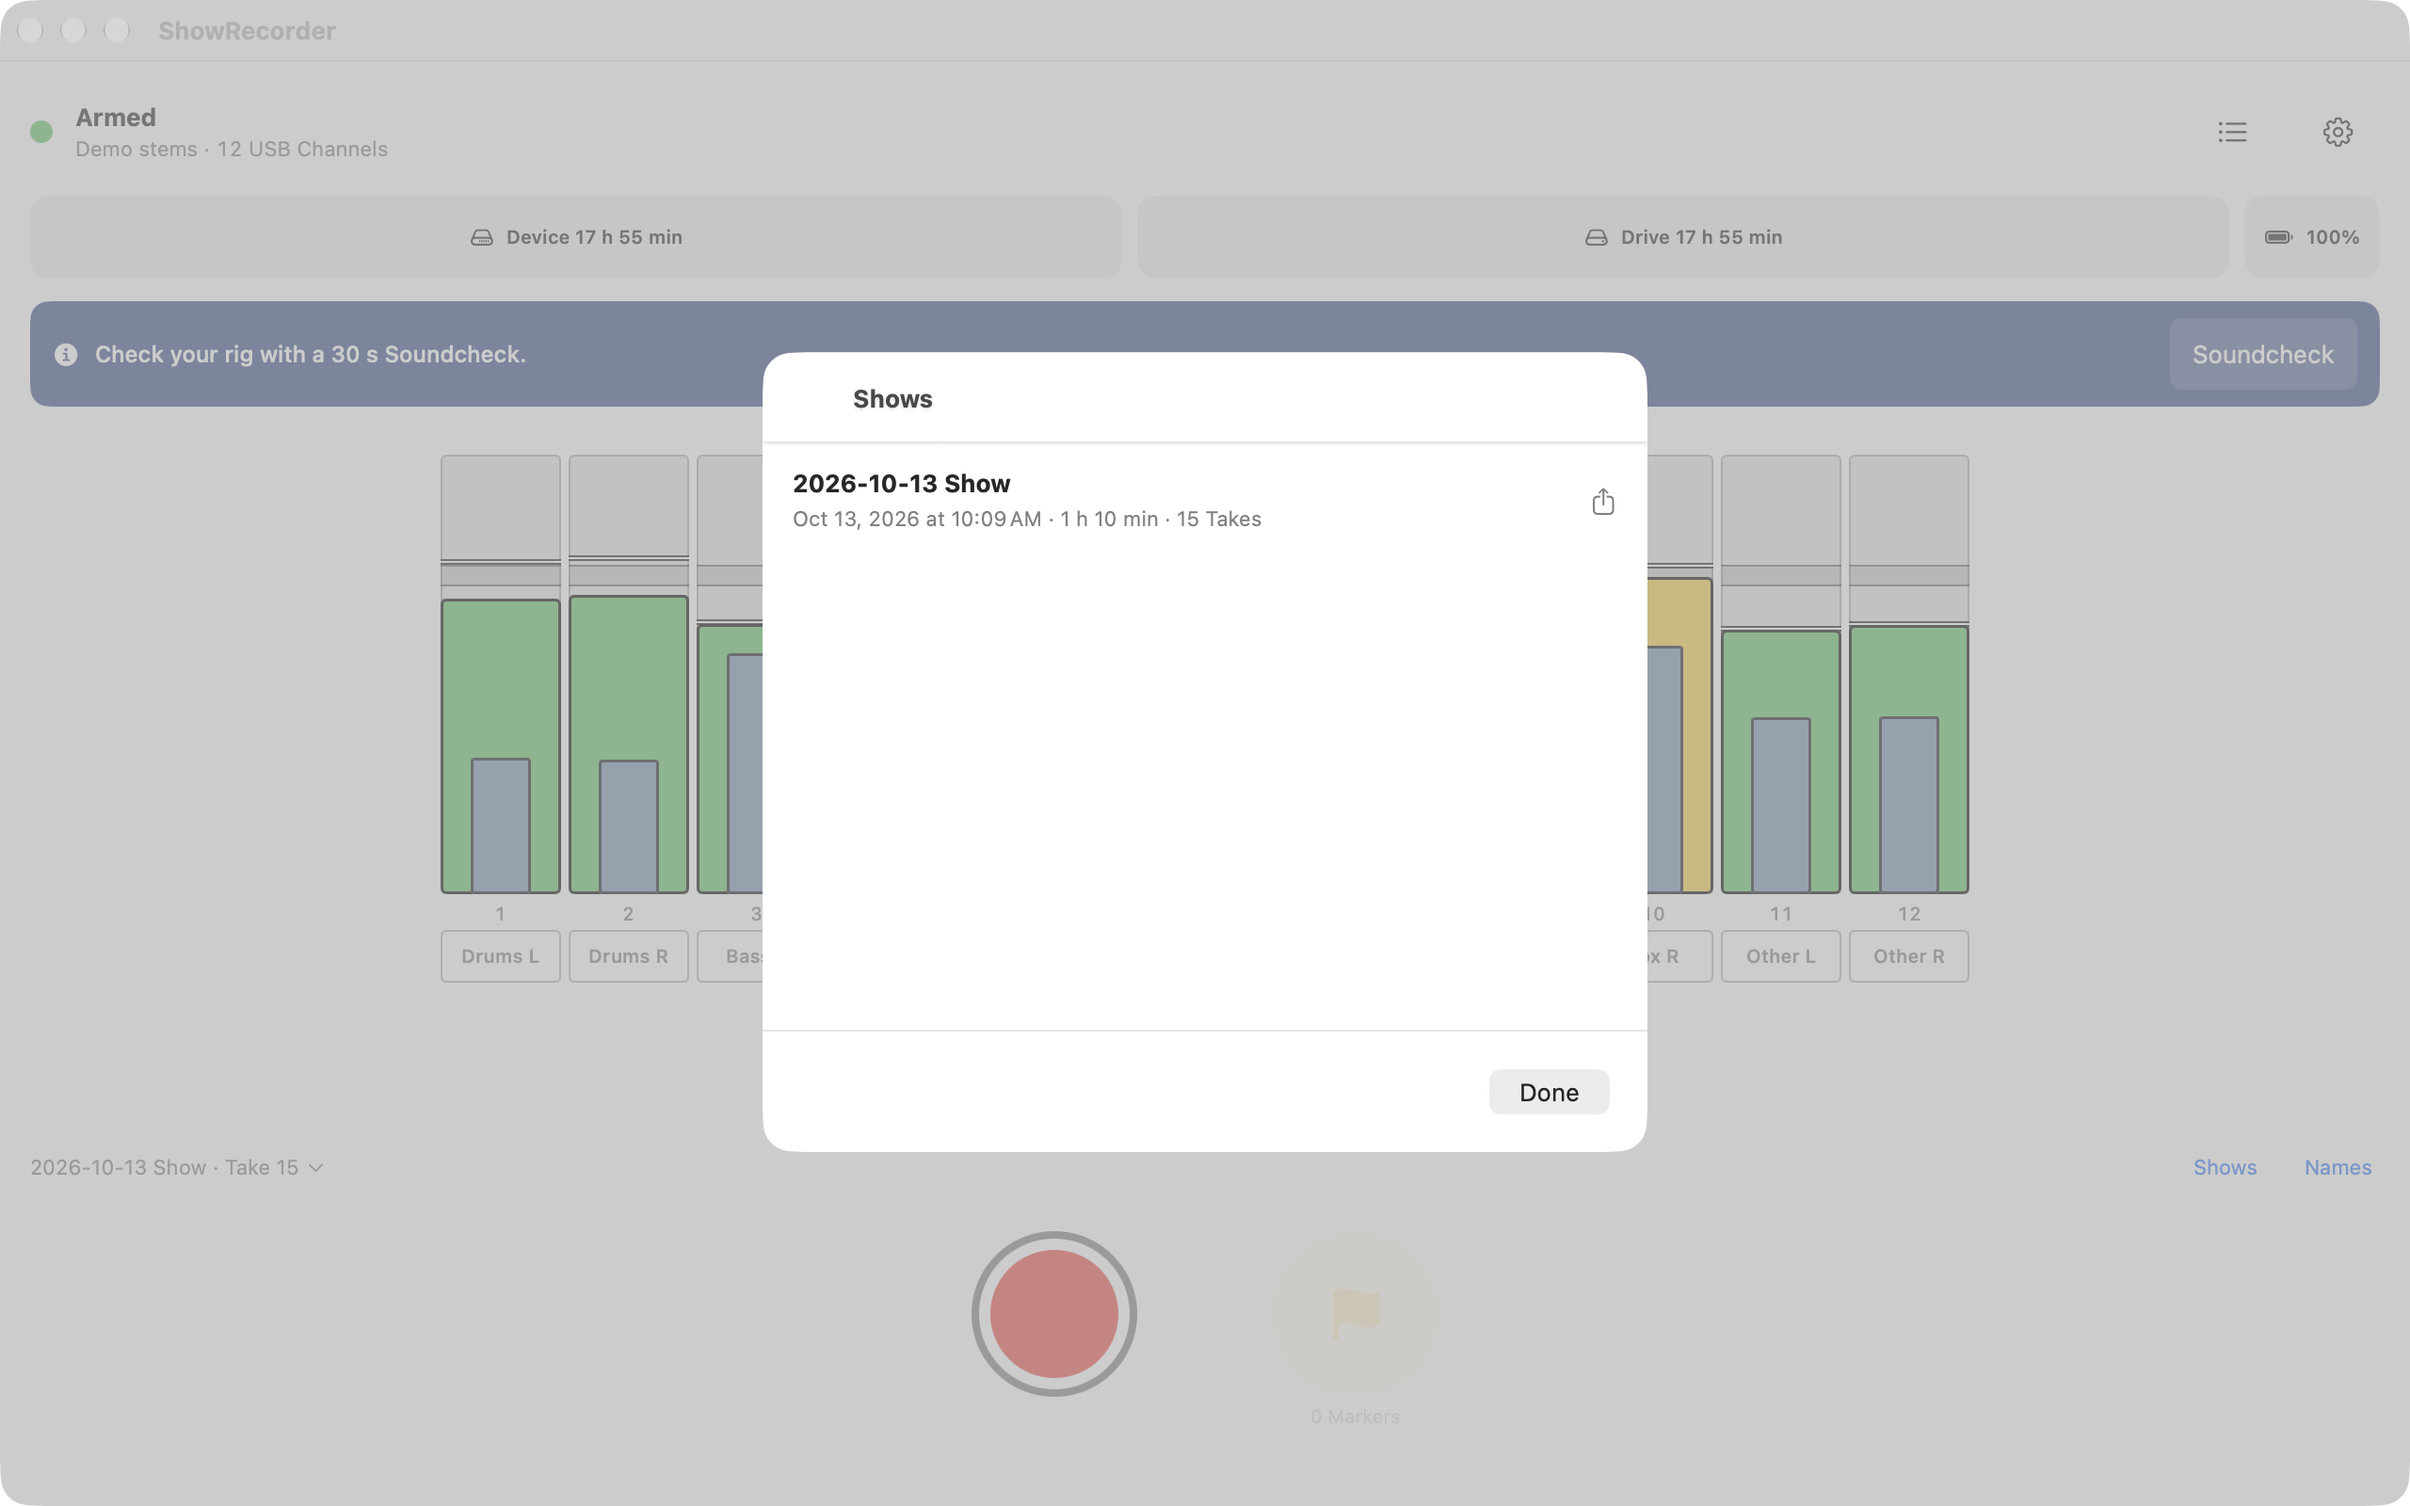
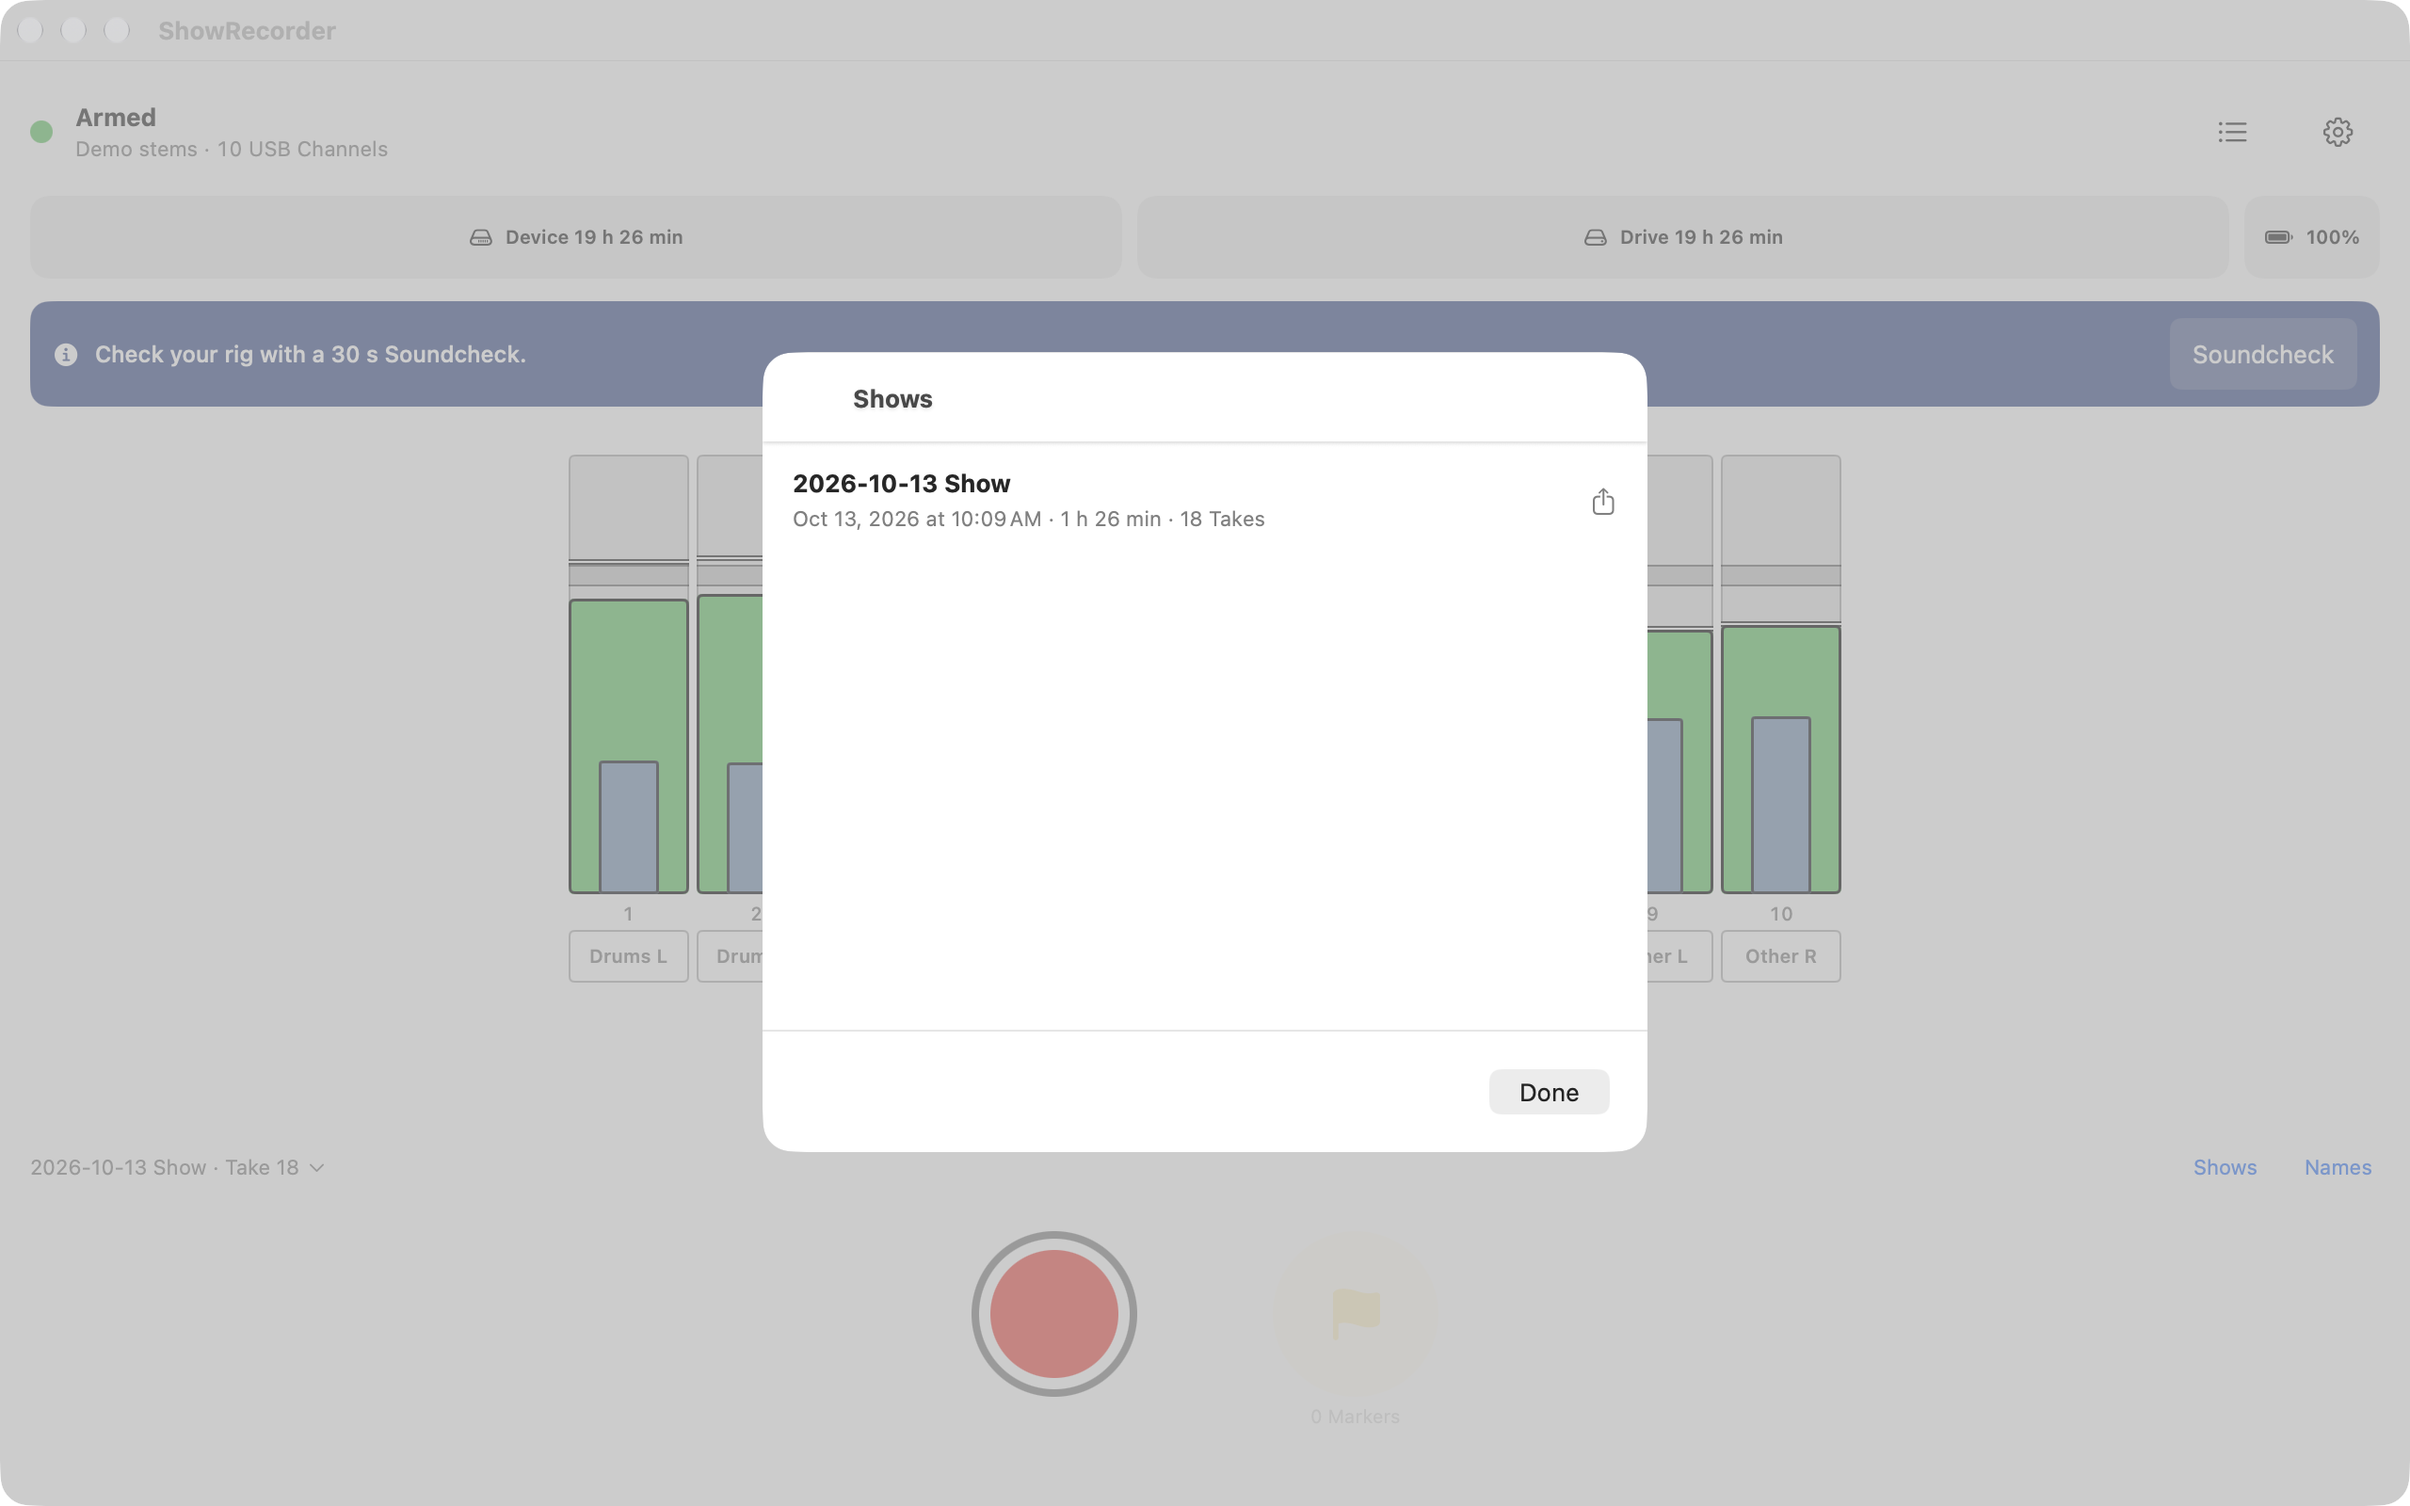
Mac screenshots: every channel has signal, 10 channels without the silent piano stem (#374)
Eric: Piano L/R flat read as broken. The set's piano stem plays for one second of the song, so no
start point lights it; it's left out and the shots show 10 USB Channels, all green or yellow.

Assisted-by: Claude Code:claude-opus-5-5
Claude-Session: https://claude.ai/code/session_01YSHtEHRvQvHpyXAjjbcmVq

diff --git a/docs/app-store/listing.md b/docs/app-store/listing.md
@@ -121,18 +121,18 @@ First release.
 
 ### Mac set (taken 2026-10-13, #374)
 
-In [`docs/images/app-store-mac/`](../images/app-store-mac/), 2560 × 1600 each: a band's stems played as 12 USB Channels (Drums, Bass, Gtr, Piano, Vox, Other, left and right), named from the files, with a Drive set:
+In [`docs/images/app-store-mac/`](../images/app-store-mac/), 2560 × 1600 each: a band's stems played as 10 USB Channels (Drums, Bass, Gtr, Vox, Other, left and right), named from the files, with a Drive set:
 
-1. `mac-01-recording-light.png`: Every channel, its own file (a Take, 12 named meters)
+1. `mac-01-recording-light.png`: Every channel, its own file (a Take, 10 named meters)
 2. `mac-02-recording-dark.png`: the same in Dark
 3. `mac-03-shows-light.png` and `mac-04-shows-dark.png`: the Show list
 4. `mac-05-sunlight.png`: Sunlight for bright stages
 
-The piano stem is silent in the part that loops, so its pair reads as an unused input. A Mixer Link shot waits for an X Air or X32 on this Mac's USB.
+Every channel has signal: the set's piano stem was left out, as it plays for only one second of the song and an idle pair reads as broken. A Mixer Link shot waits for an X Air or X32 on this Mac's USB.
 
 To take them again:
 - Build Debug under its own bundle ID, `xcodebuild … PRODUCT_BUNDLE_IDENTIFIER=dev.ericdahl.ShowRecorder.screens`. Its container is empty, the real app's Shows are untouched, and it Arms only demo inputs (`DemoOnlyInputSource`), never a microphone or USB interface.
-- Copy a folder of stems into its container (it is sandboxed), for example `~/Library/Containers/dev.ericdahl.ShowRecorder.screens/Data/tmp/demo-stems`. Never commit the audio.
+- Copy a folder of stems into its container (it is sandboxed), for example `~/Library/Containers/dev.ericdahl.ShowRecorder.screens/Data/tmp/demo-stems`. Leave out any stem that is silent in the loop. Never commit the audio.
 - Launch it with `-demoStems <that folder> -demoNames -demoDrive -demoRecord -screenshotWindow`, plus `-lightScheme` for the light set or `-showList` for the list. Sunlight is the appearance setting in that container's preferences.
 - `-demoStems` plays seconds 25 to 40 of each stem at 48 kHz, looped, about 6 dB down. `-screenshotWindow` makes a 1280 × 800 window on a Retina screen (2560 × 1600) and leaves out the empty alert slot. 2880 × 1800 would need its size changed in `ShowRecorderApp.swift` and a screen with at least 900 points of usable height.
 - Capture the window alone with `screencapture -o -l<window id>`.
